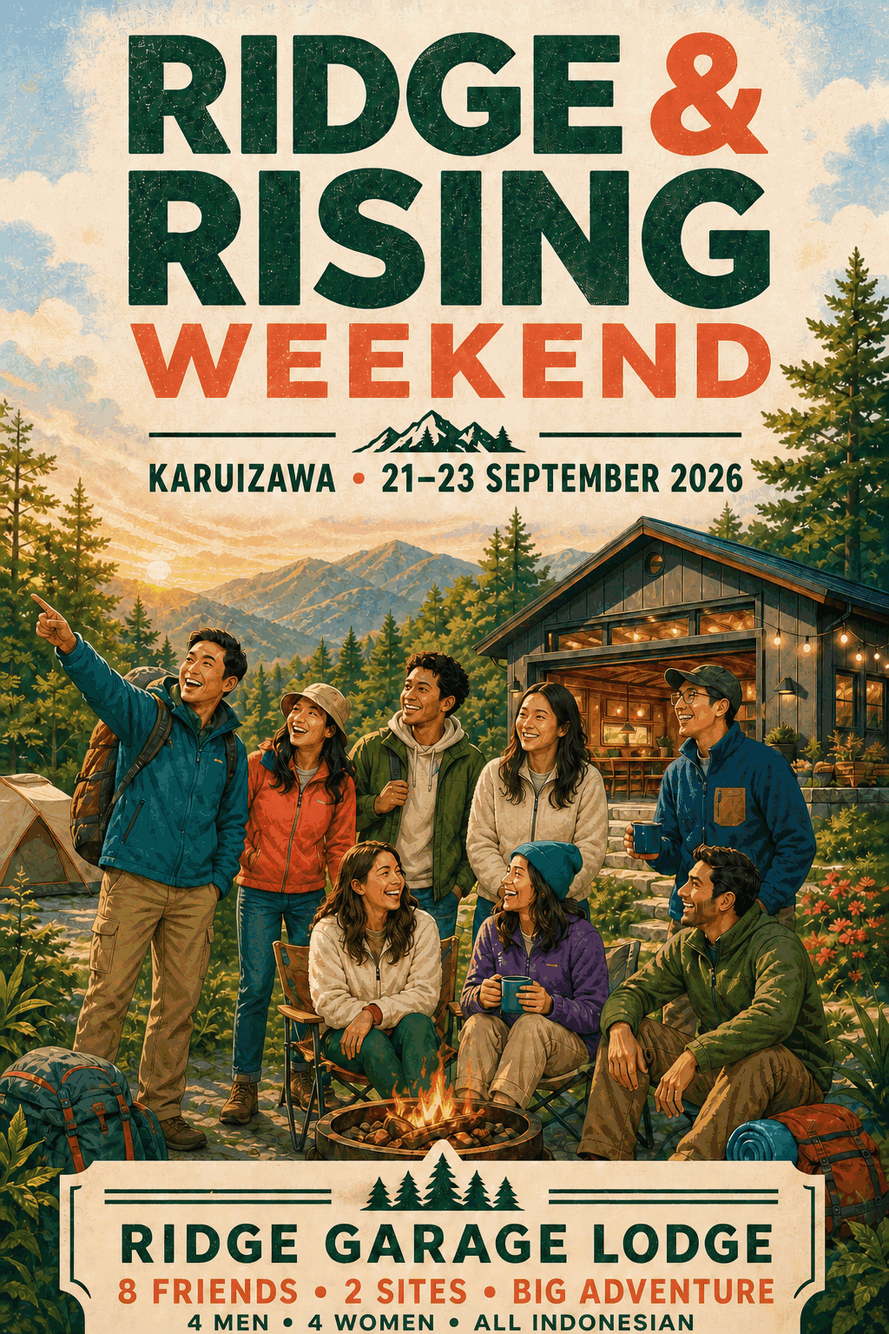
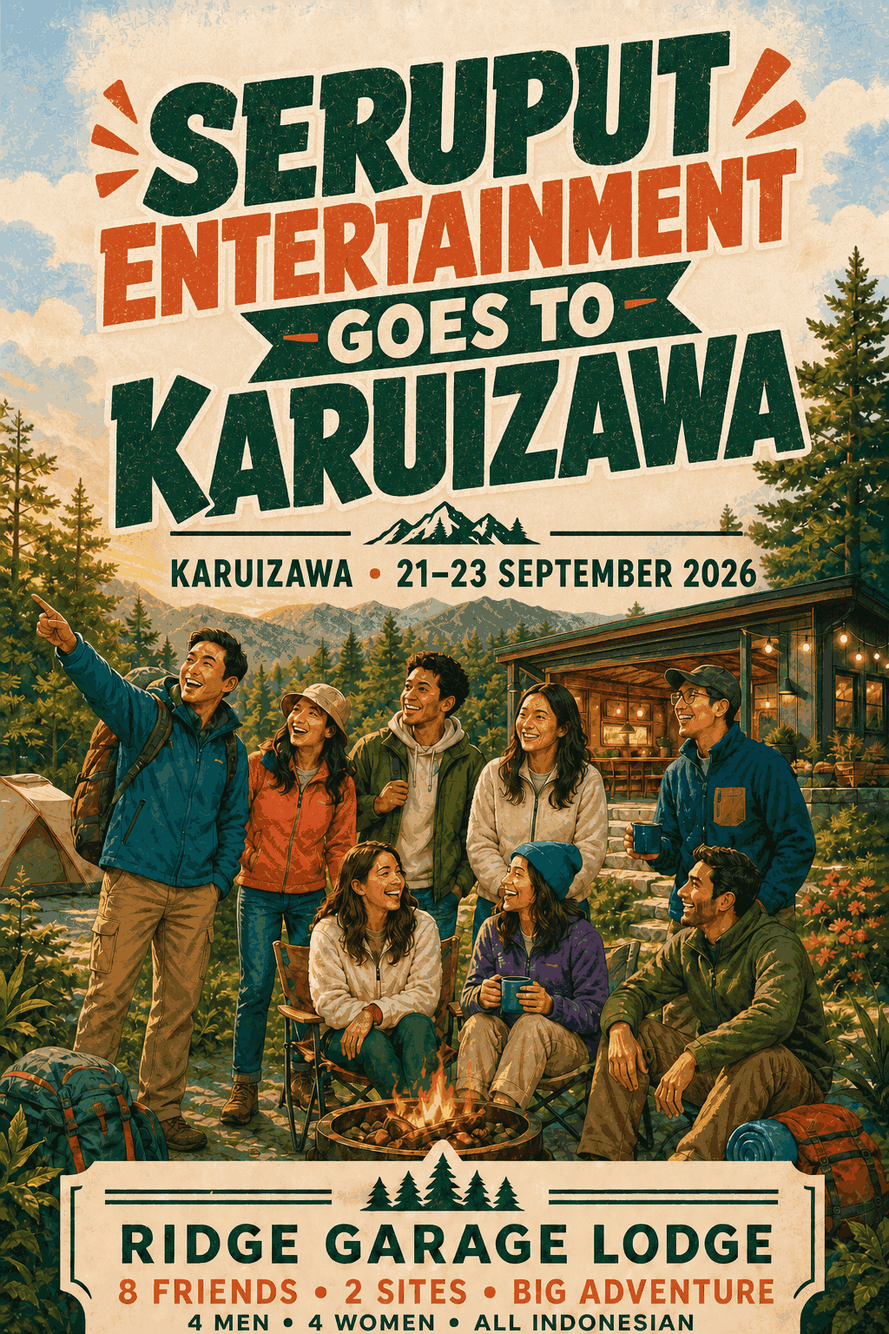
docs: publish detailed Seruput Karuizawa itinerary

diff --git a/japan-silver-week-2026/itinerary.md b/japan-silver-week-2026/itinerary.md
@@ -1,18 +1,18 @@
-# Japan Silver Week 2026: Karuizawa
+# Seruput Entertainment goes to Karuizawa
 
-![Ridge & Rising Weekend event poster](karuizawa-event-poster.png)
+![Seruput Entertainment goes to Karuizawa event poster](karuizawa-event-poster.png)
 
-*Ridge & Rising Weekend · Karuizawa · 21–23 September 2026*
+*21–23 September 2026 · Karuizawa · Ridge Garage Lodge · 2 sites*
 
-> **Quick summary:** An eight-person Indonesian group will stay two nights at Ridge Garage Lodge in two sites, with the trip centered on Rising Field and the lodge facilities. We will take a highway bus Tokyo ↔ Karuizawa, then a local bus to and from Rising Field. **Estimated total for eight: ¥240,160–¥268,160 (¥30,020–¥33,520 per person).**
+> **Quick summary:** Eight Indonesian participants will stay two nights at Ridge Garage Lodge, with the trip centered on Rising Field, its facilities, and nearby nature. We will use a highway bus Tokyo ↔ Karuizawa and a local bus to and from the Rising Field area. **Estimated total for eight: ¥240,160–¥268,160 (¥30,020–¥33,520 per person).**
 
 ## Please review
 
-Before booking, please comment on these four points:
+Please comment on these points before booking:
 
 1. Can you attend all three days, 21–23 September 2026?
 2. Does the quoted ¥132,000 cover both sites for both nights?
-3. Are the proposed bus route, shared cooking, and Rising Field-focused activities practical?
+3. Are the bus route, Day 2 waterfall loop, shared cooking, and rainy-day plan practical?
 4. Do you have any food, accessibility, sleeping, or schedule requirements?
 
 ## Fixed plan
@@ -24,10 +24,26 @@ Before booking, please comment on these four points:
 | Group | 8 Indonesian participants · 4 men / 4 women |
 | Route | Tokyo → Karuizawa → Rising Field / Ridge Garage Lodge → Karuizawa → Tokyo |
 | Transport | Highway bus Tokyo ↔ Karuizawa; local bus Karuizawa Station ↔ Rising Field |
-| Focus | Rising Field area, lodge facilities, nature, shared meals, and group time |
+| Focus | Rising Field facilities, nearby nature, shared meals, and group time |
 | Food | Muslim-friendly planning; verify ingredients and avoid alcohol venues |
 
-## Reservation
+## Destination map links
+
+These are the destination pins used in the schedule. The Ridge Garage Lodge reservation is treated as being inside the Rising Field campus; confirm the exact lodge plot from the booking.
+
+| Destination | Google Maps |
+|---|---|
+| Shibuya Mark City highway-bus terminal | [Open map](https://www.google.com/maps?q=Shibuya+Mark+City+Highway+Bus+Terminal) |
+| Karuizawa Station | [Open map](https://maps.app.goo.gl/qYpCkzKeKFZDJB5J9) |
+| Rising Field Karuizawa | [Open map](https://www.google.com/maps?q=Rising+Field+Karuizawa,+2129+Nagakurayama+National+Forest,+Karuizawa,+Nagano) |
+| Ridge Garage Lodge / Rising Field campus | [Open campus map](https://www.google.com/maps?q=Rising+Field+Karuizawa,+2129+Nagakurayama+National+Forest,+Karuizawa,+Nagano) |
+| Kose Onsen bus stop | [Open map](https://www.google.com/maps?q=Kose+Onsen,+Karuizawa,+Nagano) |
+| Ryugaeshi Falls | [Open map](https://maps.app.goo.gl/A2VKvaoHRbUvRbEP8) |
+| Shiraito Waterfall | [Open map](https://maps.app.goo.gl/MkpkNZkBbcNieEQ56) |
+
+Rising Field’s official access page gives the campus address and confirms the public-bus connection from Karuizawa Station. [Official access page](https://www.rising-field.com/rfk-access)
+
+## Reservation and stay
 
 | Item | Supplied details |
 |---|---|
@@ -39,23 +55,15 @@ Before booking, please comment on these four points:
 | Quoted fee | ¥66,000 on 21 September + ¥66,000 on 22 September |
 | Working total | **¥132,000** for both nights |
 
-The ¥132,000 figure is provisional. Confirm that it covers both sites before payment, and confirm the actual beds or futons, heating, bathrooms, kitchen, showers, power, cooking rules, fire rules, quiet hours, and rubbish process.
+The ¥132,000 figure is provisional. Confirm that it covers both sites before payment, plus the actual beds or futons, heating, bathrooms, kitchen, showers, power, cooking rules, fire rules, quiet hours, and rubbish process.
 
-![Ridge Garage Lodge / Rising Field accommodation area](https://static.wixstatic.com/media/019307_9cd90b343dc44105b0b10ddb38caaec6~mv2.png/v1/fill/w_980%2Ch_663%2Cal_c%2Cq_90%2Cusm_0.66_1.00_0.01%2Cenc_avif%2Cquality_auto/Mask%20group%20%2835%29.png)
+![Ridge Garage Lodge exterior](https://static.wixstatic.com/media/019307_ea63c25d1955419d89cfa98bb0d475cd~mv2.png/v1/fill/w_408,h_288,al_c,lg_1,q_85,enc_avif,quality_auto/Mask%20group%20%2840%29.png)
 
-*Stay visual: Rising Field’s official camping page. Confirm the exact Ridge Garage Lodge layout and included facilities before arrival. [Source](https://www.rising-field.com/rfk-camp).*
+![Ridge Garage Lodge interior](https://static.wixstatic.com/media/019307_636b078db7ce42aa874478bae6212ead~mv2.png/v1/fill/w_408,h_288,al_c,lg_1,q_85,enc_avif,quality_auto/Mask%20group%20%2841%29.png)
 
-## Schedule at a glance
-
-| Date | Core plan | Overnight |
-|---|---|---|
-| **Mon 21 Sep** | Highway bus to Karuizawa; local bus to Rising Field; check in; orientation walk; shared dinner | Ridge Garage Lodge · sites 1–2 |
-| **Tue 22 Sep** | Full Rising Field and lodge day: nature, movement, games, cooking, prayer, rest, and evening gathering | Ridge Garage Lodge · sites 1–2 |
-| **Wed 23 Sep** | Final lodge-area activity; pack and clean; local bus to Karuizawa; highway bus to Tokyo | Home / Tokyo |
+*Stay visuals: user-supplied Ridge Garage Lodge images. Confirm which image matches the reserved unit and which facilities are included.*
 
 ## Group and site setup
-
-### Participants
 
 | Participant | Group | Starting area |
 |---|---|---|
@@ -68,54 +76,81 @@ The ¥132,000 figure is provisional. Confirm that it covers both sites before pa
 | Elis | Woman | Yokohama |
 | Vany | Woman | Tokyo |
 
-### Room and travel coordination
+- **Site 1:** four men. **Site 2:** four women. Confirm privacy and sleeping arrangements with the lodge.
+- Ismail and Azis can coordinate from Kawaguchi; Mila, Ghisa, and Elis from Yokohama. Bayu, Vany, and Dhanang/Darto join the agreed Tokyo departure from their own areas.
+- Meet at [Shibuya Mark City](https://www.google.com/maps?q=Shibuya+Mark+City+Highway+Bus+Terminal) at least 30 minutes before the booked departure. Confirm attendance before booking all eight bus seats.
 
-- **Site 1:** four men. **Site 2:** four women. Confirm privacy, sleeping layout, and facilities with the lodge.
-- Coordinate Ismail and Azis from Kawaguchi; Mila, Ghisa, and Elis from Yokohama. Bayu, Vany, and Dhanang/Darto join the agreed Tokyo departure from their own areas.
-- Choose one highway-bus departure and boarding point, currently referenced as [Shibuya Mark City bus terminal](https://www.google.com/maps/search/?api=1&query=Shibuya+Mark+City+bus+terminal). Meet at least 30 minutes early.
-- Book the full set of bus seats only after attendance is confirmed. Share the exact departure, bus number, emergency contact, and late-arrival procedure in the group chat.
+## Timed itinerary
 
-## Day plans
+Each day has one core time plan with a sunny option and a rain option. Times marked “target” must be replaced with the booked departure or the lodge’s confirmed check-in/check-out time.
 
 ### Monday 21 September · Tokyo → Ridge Garage Lodge
 
 ![Monday highlight: arriving at Karuizawa Station](https://karuizawa-kankokyokai.jp/wordpress/wp-content/uploads/2023/03/3309748_s.jpg)
 
-*Highlight: arrive through Karuizawa Station, then connect to Rising Field. [Image source: Karuizawa Tourism Association](https://karuizawa-kankokyokai.jp/course/63848/).*
+*Highlight image: Karuizawa Station arrival. [Image source: Karuizawa Tourism Association](https://karuizawa-kankokyokai.jp/course/63848/).*
 
-- Take the highway bus from [Shibuya Mark City](https://www.google.com/maps/search/?api=1&query=Shibuya+Mark+City+bus+terminal) to [Karuizawa Station](https://www.google.com/maps/search/?api=1&query=Karuizawa+Station). Current reference fare: **¥3,300 one way**; confirm the live fare and timetable when booking.
-- Buy or carry lunch and simple groceries that can travel by bus.
-- Take the local bus from [Karuizawa Station](https://www.google.com/maps/search/?api=1&query=Karuizawa+Station) to [Rising Field Karuizawa](https://www.google.com/maps/search/?api=1&query=Rising+Field+Karuizawa). Current reference fare: **¥460 one way**.
-- Check in, assign the two sites, inspect sleeping and cooking arrangements, and locate bathrooms, water, charging, waste disposal, and emergency contacts.
-- Walk around the established paths, use the available lodge/common/outdoor facilities, cook dinner, and leave time for prayer and rest. Stargazing is optional if weather and quiet-hour rules allow it.
+| Time | Sunny plan | Rain plan |
+|---|---|---|
+| 06:40–07:00 | Meet at [Shibuya Mark City](https://www.google.com/maps?q=Shibuya+Mark+City+Highway+Bus+Terminal), attendance check, and board preparation. | Wait inside the bus terminal; confirm tickets, luggage, and rain gear. |
+| 07:20–09:20 | Take the first suitable booked highway bus to [Karuizawa Station](https://maps.app.goo.gl/qYpCkzKeKFZDJB5J9). Current reference journey is about 3 hours; record the final booked time here. | Same transport plan; keep all luggage covered and allow for traffic. |
+| 10:35–12:35 | Arrive at Karuizawa Station, buy lunch and simple groceries, and use facilities. | Stay inside the station, eat lunch, and avoid adding outdoor stops. |
+| 11:10–12:55 | Take the first practical local bus to [Rising Field](https://www.google.com/maps?q=Rising+Field+Karuizawa,+2129+Nagakurayama+National+Forest,+Karuizawa,+Nagano); use the later connection if the highway bus arrives later. | Take the same local bus connection; do not walk long distances with luggage. |
+| 13:00–14:00 | Lunch, luggage drop if permitted, and check the two-site layout. | Lunch and luggage organization inside the permitted lodge/common area. |
+| 14:00–15:00 | Orientation around the campus, facilities, bathrooms, water, charging, waste, and emergency contacts. | Indoor facility orientation and lodge rules review. |
+| 15:00–17:30 | Check in at the lodge’s confirmed time, settle rooms, take a short established-path walk, and rest. | Check in, dry gear, rest, and use only confirmed indoor facilities. |
+| 17:30–21:00 | Cook dinner, prayer, group introductions, games, and quiet conversation. Stargazing only if weather and quiet hours allow. | Shared cooking, prayer, games, and quiet indoor gathering; no campfire. |
 
-### Tuesday 22 September · Rising Field day
+The highway-bus route and fare must be confirmed on the [official Tokyo/Shibuya–Karuizawa booking page](https://www.highwaybus.com/gp/inbound/inbRouteList?arefNameCd=110&rrefNameCd=113). The local-bus reference timetable lists Rising Field services from Karuizawa Station through the day. [Current Kusakaru timetable](https://www.kkkg.co.jp/bus/timetable/en-timetable.pdf?v=202604)
+
+### Tuesday 22 September · Waterfalls and Rising Field
 
 ![Tuesday highlight: Rising Field forest accommodation](https://static.wixstatic.com/media/019307_17128fd8407d428a9cdac4bc7af8881f~mv2.png/v1/fill/w_980%2Ch_661%2Cal_c%2Cq_90%2Cusm_0.66_1.00_0.01%2Cenc_avif%2Cquality_auto/Mask%20group%20%2844%29.png)
 
-*Highlight: spend the main day in Rising Field’s forest setting. [Image source: Rising Field official camping page](https://www.rising-field.com/rfk-camp).*
+*Highlight image: Rising Field’s forest setting. [Image source: Rising Field official camping page](https://www.rising-field.com/rfk-camp).*
 
-- Breakfast, warm-up, and an easy nature walk or photo challenge on established paths.
-- Optional **8–12 km run** for interested participants; others can take a shorter walk or stay at the lodge.
-- Return for lunch, hydration, prayer, rest, and facility time. Keep one site quiet and the other social if the layout permits.
-- Use the outdoor area for light games, group photos, journaling, and a shared reflection. Add a nearby Rising Field activity only if it is open and suitable.
-- Cook dinner, clean the sites, and gather for non-alcoholic drinks, conversation, prayer, and games. A campfire is conditional on lodge permission and safe cleanup.
+Ryugaeshi Falls is accessed from Kose Onsen with approximately a 15-minute walk. The local bus timetable also lists Kose Onsen, Shiraito Waterfall, and Rising Field stops. [Access reference](https://en.slow-style.com/spots/ryugaeshi-fall/), [current Kusakaru timetable](https://www.kkkg.co.jp/bus/timetable/en-timetable.pdf?v=202604)
 
-### Wednesday 23 September · Return to Tokyo
+| Time | Sunny plan | Rain plan |
+|---|---|---|
+| 07:30–08:15 | Breakfast, hydration, weather check, and pack a light day bag. | Breakfast, weather check, and confirm the lodge-first plan. |
+| 08:15–08:45 | Walk to the [Rising Field](https://www.google.com/maps?q=Rising+Field+Karuizawa,+2129+Nagakurayama+National+Forest,+Karuizawa,+Nagano) bus stop; bring water and rain layers. | Indoor warm-up, prayer, and prepare games/cooking materials. |
+| 08:55–09:10 | Local bus to [Kose Onsen](https://www.google.com/maps?q=Kose+Onsen,+Karuizawa,+Nagano); use the next safe service if delayed. | Stay at the lodge; no waterfall transfer in unsafe rain. |
+| 09:10–10:15 | Walk approximately 15 minutes to [Ryugaeshi Falls](https://maps.app.goo.gl/A2VKvaoHRbUvRbEP8), enjoy the forest path, take photos, and return to Kose Onsen. | Facility time: common area, journaling, cards, and group planning. |
+| 10:36–10:45 | Local bus from Kose Onsen to [Shiraito Waterfall](https://maps.app.goo.gl/MkpkNZkBbcNieEQ56). | Indoor group program and warm drinks. |
+| 10:45–11:40 | Visit Shiraito Waterfall; stay on marked paths and keep the group together. | Continue lodge activity; optional short covered movement only if safe. |
+| 11:46–12:00 | Return by local bus to Rising Field, then walk back to the lodge. | Prepare lunch at the lodge. |
+| 12:00–13:30 | Lunch, prayer, hydration, and rest. | Lunch, prayer, hydration, and rest. |
+| 13:30–15:30 | Use lodge/common/outdoor facilities for photos, light games, and a shared reflection. | Lodge-first: shared cooking prep, board/card games, sketching, journaling, and rest. |
+| 15:30–17:00 | Optional 8–12 km run or short campus activity; non-runners use the facilities. | Indoor facility time and flexible personal rest. |
+| 17:00–21:00 | Cook dinner, clean both sites, prayer, non-alcoholic drinks, games, and conversation. Campfire only with lodge permission. | Cook dinner, clean both sites, prayer, games, and quiet indoor gathering. |
 
-![Wednesday highlight: optional Shiraito Falls nature stop](https://www.legrand-karuizawa.jp/photo/img/170613/main_sp_img_001.jpg)
+### Wednesday 23 September · Light morning → Tokyo
 
-*Highlight: Shiraito Falls is optional only if the checkout and bus schedule leave a comfortable margin. [Image source: Le Grand Old Karuizawa photo gallery](https://www.legrand-karuizawa.jp/photo/).*
+![Wednesday highlight: relaxed final morning at Rising Field](https://static.wixstatic.com/media/019307_636b078db7ce42aa874478bae6212ead~mv2.png/v1/fill/w_408,h_288,al_c,lg_1,q_85,enc_avif,quality_auto/Mask%20group%20%2841%29.png)
 
-- Have breakfast and take one final short walk or lodge-area activity.
-- Pack, separate rubbish, clean both sites, check for lost property, return borrowed equipment, and complete checkout.
-- Take the local bus from [Rising Field](https://www.google.com/maps/search/?api=1&query=Rising+Field+Karuizawa) to [Karuizawa Station](https://www.google.com/maps/search/?api=1&query=Karuizawa+Station): current reference fare **¥460**.
-- Leave enough time at the station for food, toilets, luggage, and boarding. Take the reserved highway bus back to [Shibuya Mark City](https://www.google.com/maps/search/?api=1&query=Shibuya+Mark+City+bus+terminal): current reference fare **¥3,300**.
-- Do not add Shiraito Falls if it risks the local bus, luggage handling, or return highway bus.
+*Highlight image: a relaxed final morning at the lodge. Image supplied for Ridge Garage Lodge; confirm the exact reserved-unit view.*
+
+The Wednesday plan deliberately leaves in the afternoon. The working return target is the **16:30 highway bus** from Karuizawa Station, expected to reach Shibuya around **19:35**; the **17:30 service** is the latest planned backup, expected around **20:35**. Do not use the 18:30 service as the normal plan because traffic could push arrival beyond the group’s limit.
+
+| Time | Sunny plan | Rain plan |
+|---|---|---|
+| 07:30–08:15 | Breakfast and final weather check. | Breakfast and confirm the early indoor plan. |
+| 08:15–10:00 | Light campus walk, photos, and one final use of the outdoor facilities. | Lodge facilities, tea, games, journaling, or quiet rest. |
+| 10:00–11:30 | Pack, separate rubbish, clean both sites, check lost property, and return equipment. | Same checkout tasks indoors; dry and consolidate rain gear. |
+| 11:30–12:30 | Early lunch and final lodge questions. | Early lunch and final lodge questions. |
+| 12:30–13:15 | Confirm checkout at the lodge’s required time and walk to the bus stop. | Confirm checkout and move carefully with covered luggage. |
+| 13:48–14:05 | Target local bus from [Rising Field](https://www.google.com/maps?q=Rising+Field+Karuizawa,+2129+Nagakurayama+National+Forest,+Karuizawa,+Nagano) to [Karuizawa Station](https://maps.app.goo.gl/qYpCkzKeKFZDJB5J9). | Same transfer; leave no later than the target connection. |
+| 14:05–16:00 | Station lunch, toilets, lockers, souvenirs, and a large boarding buffer. | Stay inside the station and keep luggage dry. |
+| 16:00–16:30 | Board the target highway bus from [Karuizawa Station](https://maps.app.goo.gl/qYpCkzKeKFZDJB5J9) to [Shibuya Mark City](https://www.google.com/maps?q=Shibuya+Mark+City+Highway+Bus+Terminal). | Same target bus; no extra sightseeing. |
+| 16:30–19:35 | Target arrival in Shibuya around 19:35, subject to traffic. | Same target arrival; allow for weather-related delay. |
+| 17:30–20:35 | If the 16:30 service is unavailable, use the booked 17:30 backup and aim for Shibuya around 20:35. | Same backup rule; do not add stops. |
+
+Confirm the dated 23 September service and seats using the [official highway-bus booking page](https://www.highwaybus.com/gp/inbound/inbRouteList?arefNameCd=110&rrefNameCd=113). The operator notes that traffic can change arrival times. [Official route details](https://www.highwaybus.com/gp/info/lineDetail?lineGroupNo=75&lineId=300)
 
 ## Budget for eight people
 
-The working model assumes ¥132,000 is the total for both sites and both nights. Bus fares, availability, and facility charges must be rechecked before payment.
+The working model assumes ¥132,000 is the total for both sites and both nights. Recheck accommodation, bus fares, availability, and facility charges before payment.
 
 | Category | Per person | Group total |
 |---|---:|---:|
@@ -128,7 +163,7 @@ The working model assumes ¥132,000 is the total for both sites and both nights.
 | Locker / contingency | ¥500–¥1,000 | ¥4,000–¥8,000 |
 | **Estimated total** | **¥30,020–¥33,520** | **¥240,160–¥268,160** |
 
-If fewer than eight people join, the accommodation share increases. For reference, six people would pay **¥35,520–¥39,020 per person** under the same assumptions. Filling all eight places is the main cost control.
+If fewer than eight people join, the accommodation share increases. Six people would pay approximately **¥35,520–¥39,020 per person** under the same assumptions.
 
 ## Food and practical requirements
 
@@ -138,21 +173,22 @@ Everyone should confirm food requirements before grocery shopping. Japanese food
 
 Plan around clearly labelled groceries, vegetables, fruit, tofu, seafood, and halal pantry basics from Tokyo. Confirm lodge cookware, grills, and shared utensils before cooking.
 
-## Decisions and preparation
+## Final decisions and preparation
 
 1. Confirm attendance for all eight participants.
 2. Confirm that the Ridge Garage Lodge quote covers two sites for both nights, plus the sleeping layout and included facilities.
 3. Confirm cooking, fire, noise, rubbish, pet, and outdoor-activity rules.
-4. Select exact highway-bus departures with comfortable check-in and checkout buffers.
-5. Recheck local-bus timetables and the walking route from the stop to the lodge.
+4. Book the exact outbound highway-bus service and all confirmed return seats.
+5. Confirm the local-bus connections for the Day 2 waterfall loop and Wednesday’s 13:48 target.
 6. Prepare the shared grocery list, prayer/rest timing, warm layers, rain gear, headlamps, chargers, and first-aid kit.
-7. Check the weather shortly before departure and keep outdoor activities flexible.
+7. Check the weather shortly before departure and use the Rain column when needed.
 
 ## Sources
 
 - [Rising Field camping](https://www.rising-field.com/rfk-camp)
 - [Rising Field access](https://www.rising-field.com/rfk-access)
 - [Rising Field facilities and prices](https://www.rising-field.com/rfk-facility-schedule)
-- [Kusakaru 2026 timetable and fares](https://www.kkkg.co.jp/bus/timetable/kusakaru_sen_sim.pdf?v=202604)
-- [Highwaybus.com Tokyo/Shibuya–Karuizawa](https://www.highwaybus.com/gp/inbound/inbRouteList?arefNameCd=110&rrefNameCd=113)
-- [JNTO Muslim traveler guidance](https://faq.japan-travel.jnto.go.jp/en/guide/muslim-travelers/)
+- [Kusakaru 2026 timetable](https://www.kkkg.co.jp/bus/timetable/en-timetable.pdf?v=202604)
+- [Highwaybus.com Tokyo/Shibuya–Karuizawa booking](https://www.highwaybus.com/gp/inbound/inbRouteList?arefNameCd=110&rrefNameCd=113)
+- [Highway-bus route details](https://www.highwaybus.com/gp/info/lineDetail?lineGroupNo=75&lineId=300)
+- [Ryugaeshi Falls access](https://en.slow-style.com/spots/ryugaeshi-fall/)

diff --git a/japan-silver-week-2026/AGENTS.md b/japan-silver-week-2026/AGENTS.md
@@ -2,7 +2,7 @@
 
 ## Scope
 
-This folder contains the Japan Silver Week 2026 Karuizawa trip plan.
+This folder contains the shareable **Seruput Entertainment goes to Karuizawa** trip plan.
 
 ## Locked trip requirements
 
@@ -10,24 +10,26 @@ This folder contains the Japan Silver Week 2026 Karuizawa trip plan.
 - Accommodation: Ridge Garage Lodge, two sites, both nights.
 - Quoted accommodation amount: ¥132,000 total as supplied; verify the final reservation screen before payment.
 - Target roster: eight people, four men and four women.
-- All participants are Indonesian; one female participant is Chinese-Indonesian (Chindo).
+- All participants are Indonesian. Do not add Chindo details to the written context.
 - Transport: highway bus between Tokyo and Karuizawa, plus local bus between Karuizawa Station and the Rising Field area.
 - Prioritize activities around Rising Field and Ridge Garage Lodge facilities.
 - Keep Muslim-friendly food requirements visible and verify ingredients rather than assuming halal certification.
+- Wednesday’s normal return target is the 16:30 highway bus; 17:30 is the latest planned backup.
 
 ## Editing rules
 
-- Keep `japan-silver-week-2026.md` as the primary itinerary and update `README.md` when its assumptions or workflow change.
+- Keep `itinerary.md` as the primary itinerary and update `README.md` when its assumptions or workflow change.
 - Keep `karuizawa-event-poster.png` at the top of the itinerary unless the user requests a replacement.
 - Preserve participant names, starting areas, dates, accommodation, transport, and cost assumptions unless the user changes them.
-- Include a real image URL for each day’s highlight and for the accommodation, with a source caption.
+- Use a real Google Maps destination link for every destination point; do not use generic map-search placeholders when a direct pin is available.
+- Include a real image URL for each day’s highlight and both Ridge Garage Lodge visuals, with captions where source attribution is needed.
+- Keep every day in the `Time | Sunny plan | Rain plan` format.
 - Label live prices, schedules, availability, and facility details as estimates until rechecked.
-- Keep optional activities clearly separate from the core plan.
-- Check Markdown consistency and arithmetic before handoff.
+- Keep waterfall visits optional when weather, safety, or bus timing is unsuitable.
+- Check Markdown consistency, arithmetic, image presence, and the Wednesday arrival cutoff before handoff.
 
 ## Repository workflow
 
-- Every intentional change must be committed and pushed to the project repository when credentials and network access are available.
+- Every intentional change must be reviewed, committed, and pushed to the project repository when credentials and network access are available.
 - Before pushing, review the diff, run `git diff --check`, and confirm that no unrelated files are included.
 - Record the resulting commit or any deployment blocker in the final response.
-

diff --git a/japan-silver-week-2026/README.md b/japan-silver-week-2026/README.md
@@ -1,6 +1,6 @@
-# Japan Silver Week 2026 — Project Handoff
+# Seruput Entertainment goes to Karuizawa — Project Handoff
 
-The shareable trip plan is [`itinerary.md`](itinerary.md). It contains the current schedule, participant list, budget, images, source links, and open decisions in one place.
+The shareable trip plan is [`itinerary.md`](itinerary.md). It contains the event poster, timed sunny/rainy schedule, participant list, destination map links, budget, source links, and open decisions.
 
 ## Assets and instructions
 
@@ -12,7 +12,8 @@ The shareable trip plan is [`itinerary.md`](itinerary.md). It contains the curre
 - 21–23 September 2026 at Ridge Garage Lodge: two sites, two nights.
 - Eight Indonesian participants: four men and four women.
 - Highway bus Tokyo ↔ Karuizawa, then local bus to and from Rising Field.
-- Activities stay centered on Rising Field and the lodge facilities.
+- Day 2 includes Ryugaeshi Falls and Shiraito Waterfall when weather and bus timing allow.
+- Wednesday targets the 16:30 return highway bus, with 17:30 as the latest planned backup.
 - The supplied ¥132,000 accommodation quote and all fares remain provisional until rechecked.
 
-For edits, update `itinerary.md` first. Keep the poster at the top, preserve the image/source captions, label estimates, and run Markdown/arithmetic checks before committing. Every intentional change should be reviewed, committed, and pushed to the repository when credentials and network access are available.
+For edits, update `itinerary.md` first. Keep the poster at the top, preserve direct map links and image/source captions, label estimates, and run Markdown/arithmetic checks before committing. Every intentional change should be reviewed, committed, and pushed to the repository when credentials and network access are available.
